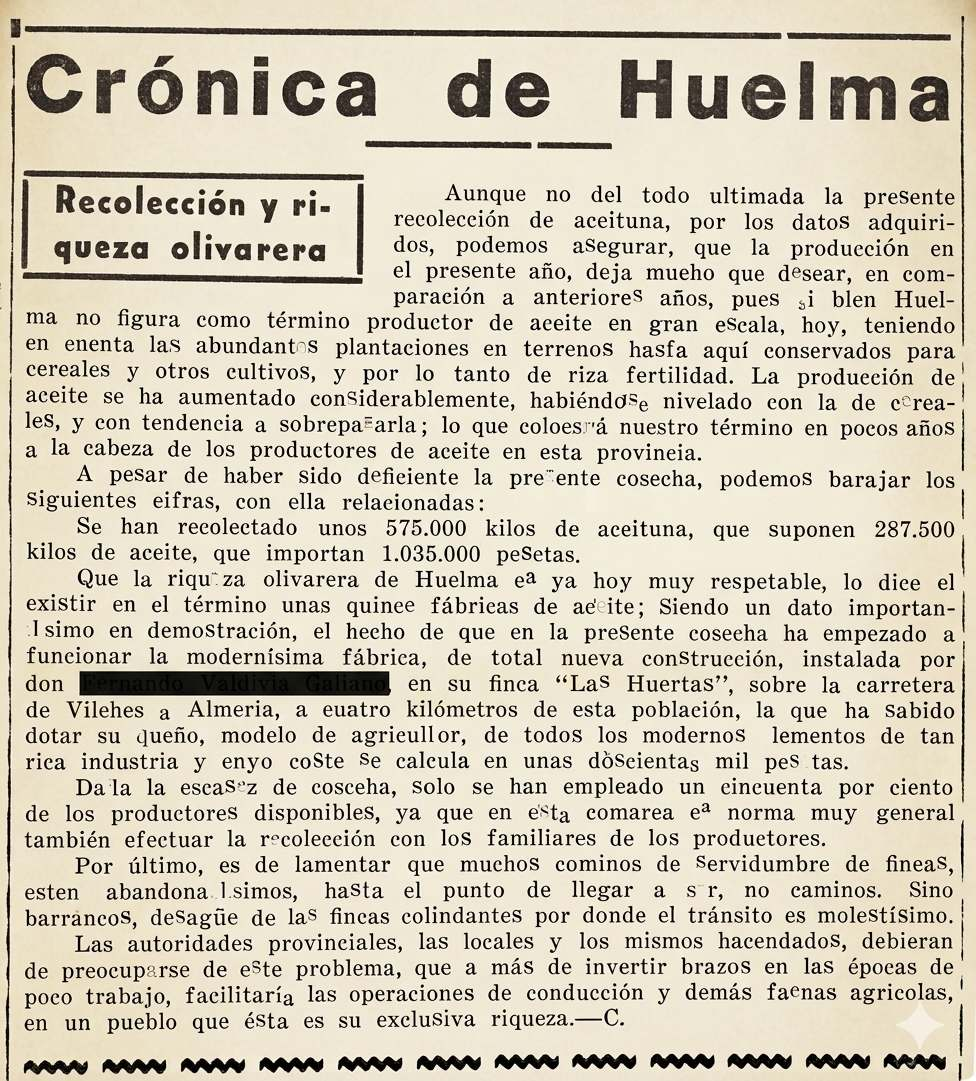
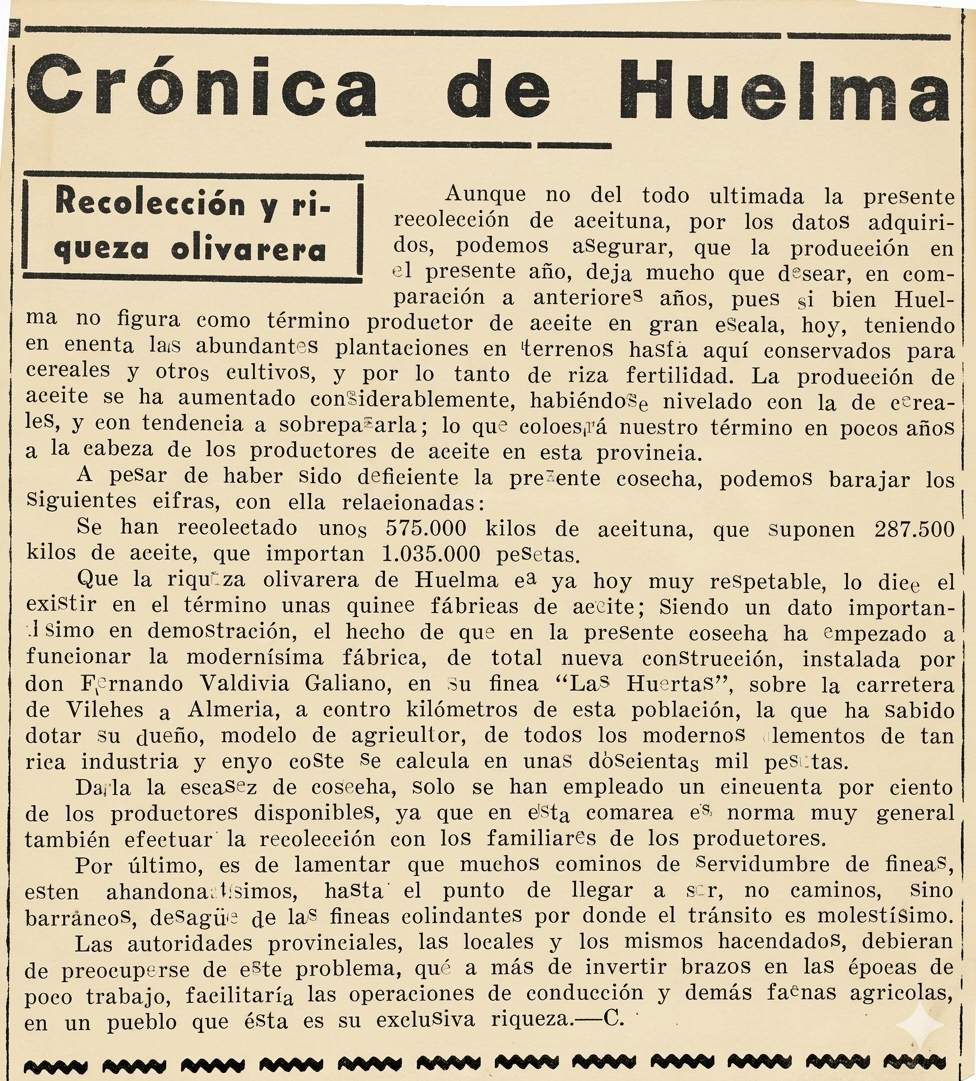
prensa-02

diff --git a/assets/css/prensa.css b/assets/css/prensa.css
@@ -60,7 +60,7 @@
 .marco-prensa {
     width: 100%;
     height: auto;
-    background-color: #f7f9fa; /* Un gris/azul clarito muy limpio de archivo */
+    background-color: #e5eff5; /* Un gris/azul clarito muy limpio de archivo */
     display: block;
     padding: 15px;
     box-sizing: border-box;
@@ -79,7 +79,7 @@
 .leyenda-prensa {
     padding: 15px;
     text-align: center;
-    background-color: #e9c7ab;
+    background-color: #ffead9;
     border-top: 1px solid #edf2f7;
     margin-top: auto;
 }
